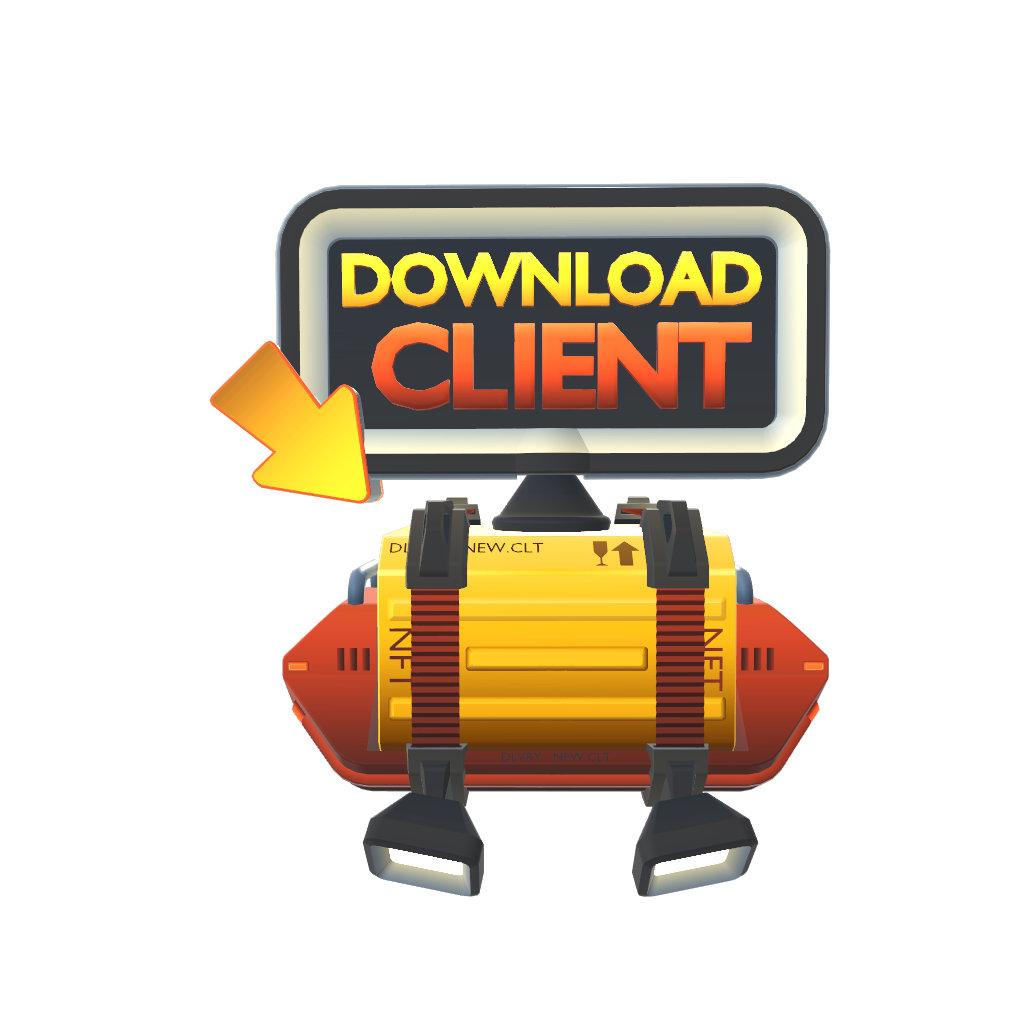
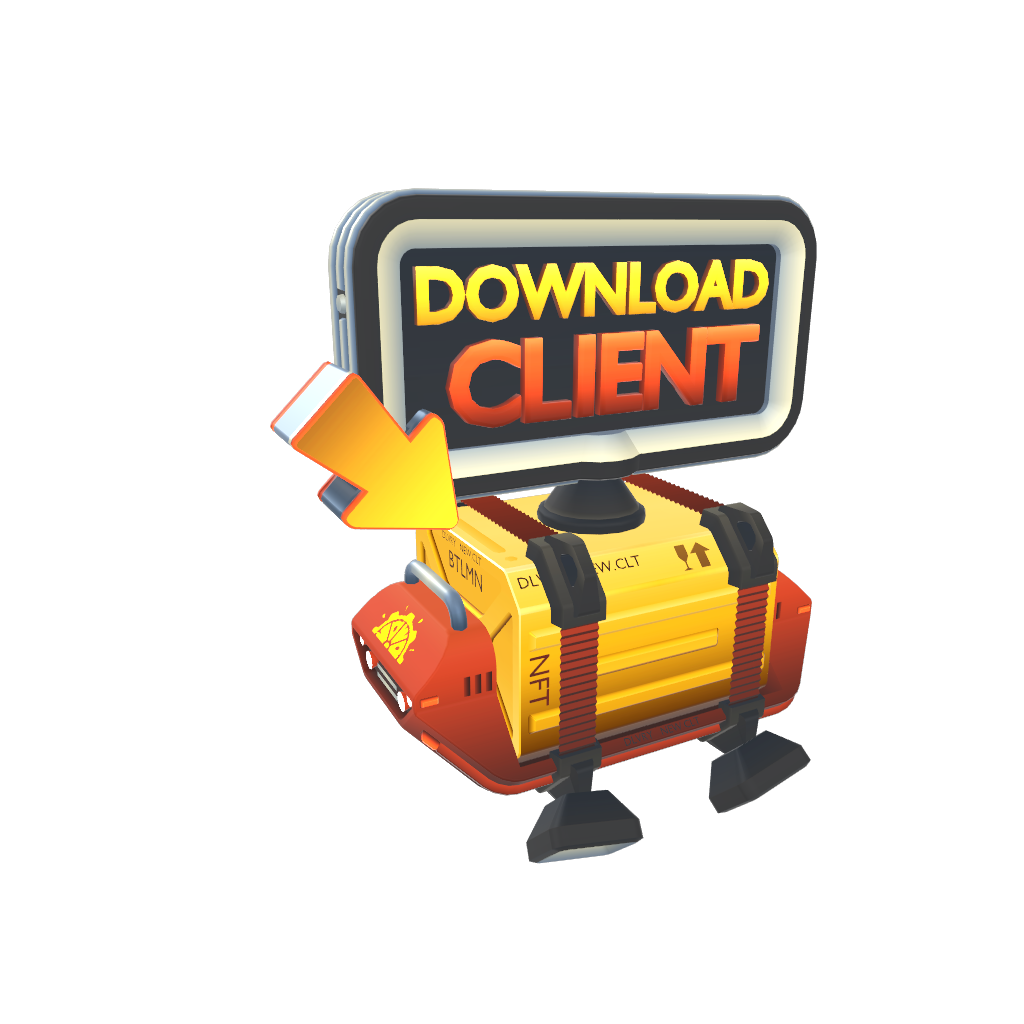
update

Changed region(s): [[0.1875, 0.1562, 0.8125, 0.875]]

diff --git a/index.html b/index.html
@@ -353,8 +353,8 @@ window.models = [];
 		lemonSettings: {model: {full: modelName}},
 		loader: loader,
 		cam: 12,
-		translateY: -1,
-		globalScale: .75,
+		translateY: -2.5,
+		globalScale: 1.5,
 		arenaBg: false,
 		rotate: false,
         noanimated: false
